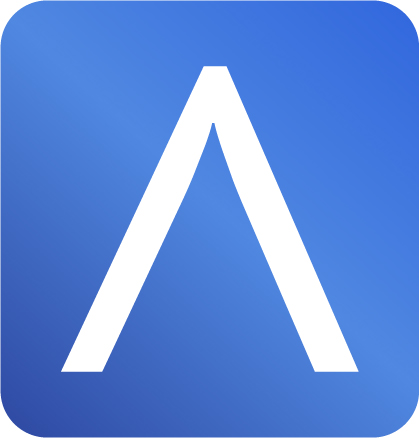
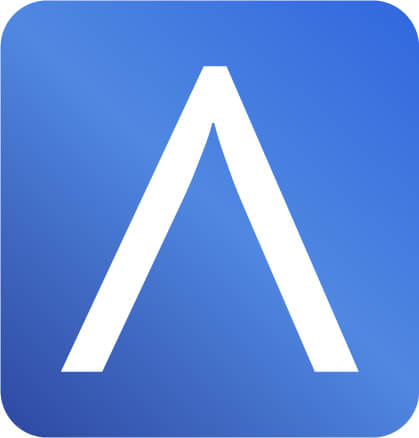
last photos

diff --git a/french/french.html b/french/french.html
@@ -34,7 +34,7 @@
 
 <!--============ PRELOAD img ================-->
 
-<link rel="preload" href="img/portada.jpeg">
+<link rel="preload" href="../img/portada.jpeg">
 
 </head>
 <body>
@@ -46,11 +46,11 @@
             <nav class="nav">
               
                 <div class="logo">
-                    <img src="../img/gancho min AME.png" alt="">
+                    <img src="../img/logo.png" alt="">
                 </div>
                 <nav class="len-menu">
                     <ul>
-                        <li class="lenguages-2"><a class="idiom" aria-label="Lang">Lang</a>
+                        <li class="lenguages-2"><a class="idiom" aria-label="Lang">Langage</a>
                                 <ul id="container-idioms"> 
                                     <li><a href="../index.html" aria-label="Anglias">Anglais</a></li>
                                     <li><a href="" aria-label="Français">Français</a></li>
@@ -71,11 +71,11 @@
                 </label>
                 
                 <ul class="nav-list"> 
-                    <li class="nav-item"><a href="#home">Acuueli</a></li>
+                    <li class="nav-item"><a href="#home">Accueli</a></li>
                     <li class="nav-item center"><a href="#about-us">À propos</a></li>
                     <li class="nav-item center"><a href="#services">Services</a></li>
                     <li class="nav-item"><a href="#contact">Contact</a></li>
-                    <li class="nav-item center lenguage-1"><a href="">Lang</a>
+                    <li class="nav-item center lenguage-1"><a href="">Langage</a>
                         <ul class="lenguages">
                             <li><a href="../index.html">Anglais</a></li>
                             <li><a href="">Français</a></li>
@@ -131,7 +131,7 @@
 
                     <li>Qualité: Nous nous efforçons de dépasser les attentes de nos clients dans chaque projet, en prêtant attention à chaque détail pour garantir des résultats impeccables.</li>
 
-                    <li>Innovation: Nous mettons en œuvre les dernières technologies et méthodes de nettoyage pour offrir des solutions plus efficaces et efficientes.</li>
+                    <li>Innovation: Nous mettons en œuvre les dernières technologies et méthodes de nettoyage pour offrir des solutions plus efficaces.</li>
 
                     <li>Responsabilité: Nous nous engageons à opérer de manière éthique et transparente, en priorisant la sécurité et le bien-être de nos employés et de nos clients.</li>
                 </ul>
@@ -195,9 +195,9 @@
                         <ul> 
                             <li>Salle de bain</li>
                             <li>Cuisine</li>
-                            <li>Glisser</li>
+                            <li>Plancger prope</li>
                             <li>Nettoyage des murs</li>
-                            <li>Enlever la poussière</li>
+                            <li>Poussière</li>
                         </ul>
                     </div>
                 </div>
@@ -209,8 +209,9 @@
                     </div>
                     <div class="service-info1">
                         <ul>
-                            <li>Nettoyage de magasin</li>
-                            <li>Nettoyage des restaurants</li>
+                            <li>Nettoyage en entreprise</li>
+                            <li>Nettoyage en restauration</li>
+                            <li>Agence automobile</li>
                         </ul>
                     </div>
                 </div>
@@ -252,6 +253,8 @@
                     <img data-aos="fade-down" src="../fotos/6.jpg" alt="">
                     <img data-aos="fade-down" src="../fotos/7.jpg" alt="">
                     <img data-aos="fade-down" src="../fotos/8.jpg" alt="">
+                    <img data-aos="fade-down" src="../fotos/foto9.png" alt="">
+                    <img data-aos="fade-down" src="../fotos/foto10.png" alt="">
                 </div>
             </div>
         </div>
@@ -302,7 +305,7 @@
                          </div>
                 </div>
 
-               <button class="button-form" type="submit">Envoyé</button>
+               <button class="button-form" type="submit"><a href="mailto:amez@dynamiccleansolutions.ca?subject=Informations%20sur%20le%20service">Envoyé</a></button>
 
 
             </form>
@@ -316,9 +319,12 @@
 
 
 <div class="b-whats">
-    <a href="https://api.whatsapp.com/send?phone=5637120792" target="_blank" aria-label="lien pour envoyer un message à whatsapp"><i class="bx bxl-whatsapp"></i></a>
+    <a href="https://api.whatsapp.com/send?phone=14382210287" target="_blank" aria-label="lien pour envoyer un message à whatsapp"><i class="bx bxl-whatsapp"></i></a>
 </div>
 
+
+
+<script src="../index.js"></script>
 </body>
 
 
@@ -327,7 +333,7 @@
     <div class="container-footer">
 
         <div class="logo-footer">
-            <img src="../img/gancho min AME.png" alt="">
+            <img src="../img/logo.png" alt="">
         </div>
     
         <div class="footer-text">
@@ -350,5 +356,5 @@
                 }); 
             </script>
 
-            <script src="../index.js"></script>
+    
 </html>

diff --git a/index.html b/index.html
@@ -36,7 +36,7 @@
 
 <!--============ PRELOAD img ================-->
 
-<link rel="preload" href="img/portada.jpeg">
+<link rel="preload" href="./img/portada.jpeg">
 
 </head>
 <body>
@@ -48,7 +48,7 @@
             <nav class="nav">
               
                 <div class="logo">
-                    <img src="./img/gancho min AME.png" alt="">
+                    <img src="./img/logo.png" alt="">
                 </div>
                 <nav class="len-menu">
                     <ul>
@@ -73,12 +73,12 @@
                     <i class='bx bx-x' id="close-menu"></i>
                 </label>
                 
-                <ul class="nav-list"> 
+                <ul  class="nav-list"> 
                     <li class="nav-item"><a href="#home">Home</a></li>
-                    <li class="nav-item center"><a href="#about-us">About</a></li>
-                    <li class="nav-item center"><a href="#services">Services</a></li>
+                    <li  class="nav-item center"><a href="#about-us">About</a></li>
+                    <li  class="nav-item center"><a href="#services">Services</a></li>
                     <li class="nav-item"><a href="#contact">Contact</a></li>
-                    <li class="nav-item center lenguage-1"><a href="">Language</a>
+                    <li  class="nav-item center lenguage-1"><a href="">Language</a>
                         <ul id="leng" class="lenguages">
                             <li><a id="english" href="index.html">English</a></li>
                             <li><a id="french" href="./french/french.html">French</a></li>
@@ -97,7 +97,7 @@
                     <div data-aos="fade-down" class="hero-content">
                         <div class="hero-container">
                         <h1>We provide high quality cleaning service in different spaces.</h1>
-                        <p> We specialize in providing high-quality cleaning solutions tailored to the unique needs of each client. Our team of highly trained experts is committed to excellence, ensuring a clean, safe, and healthy environment for you and your loved ones</p>
+                        <p> We specialize in providing high-quality cleaning solutions tailored to the unique needs of each client. Our team of highly trained experts is committed to excellence, ensuring a clean, safe, and healthy environment for you and your company</p>
 
                         </div>
               
@@ -206,6 +206,7 @@
                         <ul>
                             <li>Shop cleaning</li>
                             <li>Restaurants cleaning</li>
+                            <li>Car Agency</li>
                         </ul>
                     </div>
                 </div>
@@ -247,6 +248,8 @@
                 <img data-aos="fade-down" src="./fotos/6.jpg" alt="">
                 <img data-aos="fade-down" src="./fotos/7.jpg" alt="">
                 <img data-aos="fade-down" src="./fotos/8.jpg" alt="">
+                <img data-aos="fade-down" src="../fotos/foto9.png" alt="">
+                <img data-aos="fade-down" src="../fotos/foto10.png" alt="">
             </div>
         </div>
 
@@ -296,7 +299,7 @@
                          </div>
                 </div>
 
-               <button class="button-form" type="submit">Sent</button>
+                <button class="button-form" type="submit"><a href="mailto:amez@dynamiccleansolutions.ca?subject=Information%20about%20the%20service">Sent</a></button>
 
 
             </form>
@@ -310,9 +313,11 @@
 
 
 <div class="b-whats">
-    <a href="https://api.whatsapp.com/send?phone=14388665724" target="_blank"  aria-label="link to send message to whatsapp"><i class="bx bxl-whatsapp"></i></a>
+    <a href="https://api.whatsapp.com/send?phone=14382210287" target="_blank"  aria-label="link to send message to whatsapp"><i class="bx bxl-whatsapp"></i></a>
 </div>
 
+
+<script src="index.js"></script>
 </body>
 
 
@@ -321,7 +326,7 @@
     <div class="container-footer">
 
         <div class="logo-footer">
-            <img src="./img/gancho min AME.png" alt="">
+            <img src="./img/logo.png" alt="">
         </div>
     
         <div class="footer-text">
@@ -344,5 +349,5 @@
                 }); 
             </script>
 
-            <script src="index.js"></script>
+            
 </html>

diff --git a/spanish/spanish.html b/spanish/spanish.html
@@ -33,7 +33,7 @@
 
 <!--============ PRELOAD img ================-->
 
-<link rel="preload" href="img/portada.jpeg">
+<link rel="preload" href="../img/portada.jpeg">
 
 </head>
 <body>
@@ -45,7 +45,7 @@
             <nav class="nav">
               
                 <div class="logo">
-                    <img src="../img/gancho min AME.png" alt="">
+                    <img src="../img/logo.png" alt="">
                 </div>
                 <nav class="len-menu">
                     <ul>
@@ -207,6 +207,7 @@
                         <ul>
                             <li>Limpieza de tiendas / comercios</li>
                             <li>Limpieza de restaurantes</li>
+                            <li>Agencias de carros</li>
                         </ul>
                     </div>
                 </div>
@@ -248,6 +249,8 @@
                     <img data-aos="fade-down" src="../fotos/6.jpg" alt="">
                     <img data-aos="fade-down" src="../fotos/7.jpg" alt="">
                     <img data-aos="fade-down" src="../fotos/8.jpg" alt="">
+                    <img data-aos="fade-down" src="../fotos/foto9.png" alt="">
+                    <img data-aos="fade-down" src="../fotos/foto10.png" alt="">
                 </div>
         </div>
 
@@ -297,7 +300,7 @@
                          </div>
                 </div>
 
-               <button class="button-form" type="submit">Enviar</button>
+                <button class="button-form" type="submit"><a href="mailto:amez@dynamiccleansolutions.ca?subject=Información%20sobre%20el%20servicio">Enviar</a></button>
 
 
             </form>
@@ -311,7 +314,7 @@
 
 
 <div class="b-whats">
-    <a href="https://api.whatsapp.com/send?phone=5637120792" target="_blank"><i class="bx bxl-whatsapp"></i></a>
+    <a href="https://api.whatsapp.com/send?phone=14382210287" target="_blank"><i class="bx bxl-whatsapp"></i></a>
 </div>
 
 </body>
@@ -322,7 +325,7 @@
     <div class="container-footer">
 
         <div class="logo-footer">
-            <img src="./img/gancho min AME.png" alt="">
+            <img src="../img/logo.png" alt="">
         </div>
     
         <div class="footer-text">

diff --git a/styles.css b/styles.css
@@ -159,7 +159,7 @@ transform: translateX(-50%)
 /*================= HERO ============*/
 
 .main-hero {
-  background: linear-gradient(to bottom, rgba(0,0,0,.4), rgba(41, 41, 41, 0.8)), url(img/portada.jpeg);
+  background: linear-gradient(to bottom, rgba(0,0,0,.4), rgba(41, 41, 41, 0.8)), url('img/portada.jpeg');
   background-position: center;
   background-repeat: no-repeat;
   background-size: cover;
@@ -374,7 +374,7 @@ margin-top: 3rem;
 .button-form{
   padding: 0.7rem;
   background-color: white;
-  color: var(--lightblue);
+  
   border: none;
   cursor: pointer;
   margin-top: 7px;
@@ -382,7 +382,7 @@ margin-top: 3rem;
 }
 .button-form:hover{
 background-color:var(--darkblue);
-color: white;
+
 }
 
 #message{
@@ -390,6 +390,14 @@ color: white;
   width: 70%;
   height: 23rem
 }
+.button-form a{
+  color: var(--lightblue);
+}
+
+.button-form a:hover{
+  color: white;
+}
+
 
 
 /*WHATS BUTTON*/
@@ -416,6 +424,8 @@ color: white;
 .b-whats:hover{
   transform: translateY(5px);
 }
+
+
 
 /* ================= FOOTER =================== */
 

diff --git a/index.js b/index.js
@@ -4,6 +4,7 @@ const idioms = document.getElementById('container-idioms')
 const leng = document.querySelectorAll('#leng a');
 
 
+
 button.addEventListener('click',function() {
     if(idioms.style.display ==='none' || idioms.style.display === ''){
         idioms.style.display = 'block';
@@ -31,3 +32,6 @@ leng.forEach((link) =>{
         }
     })
 })
+
+
+
